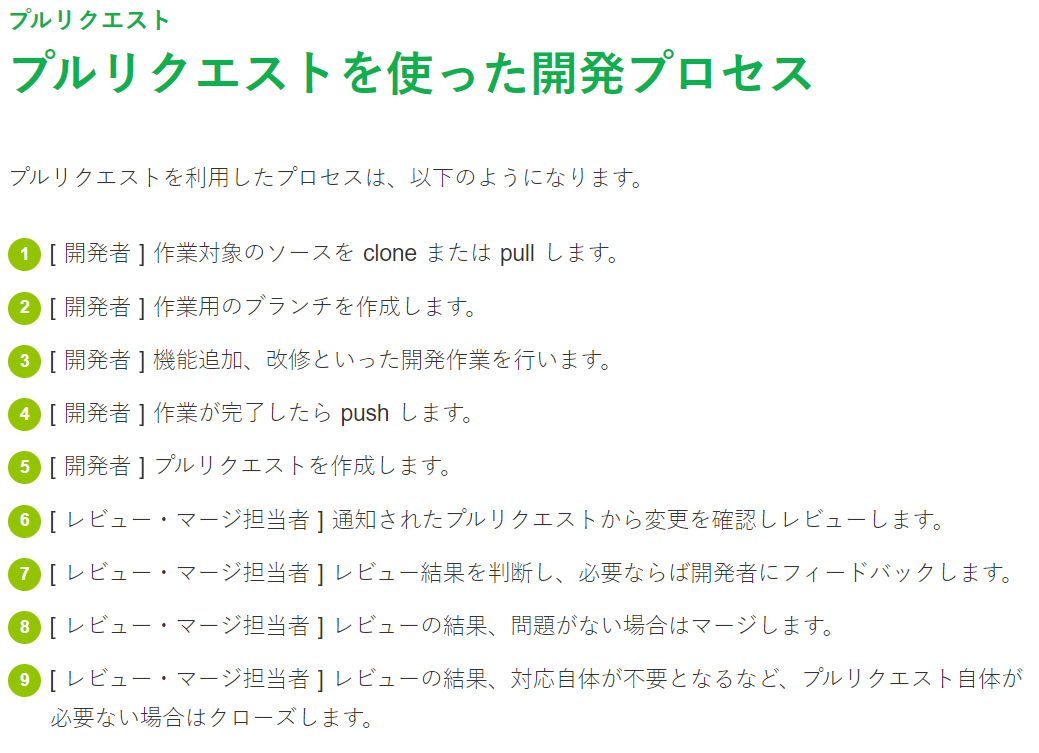
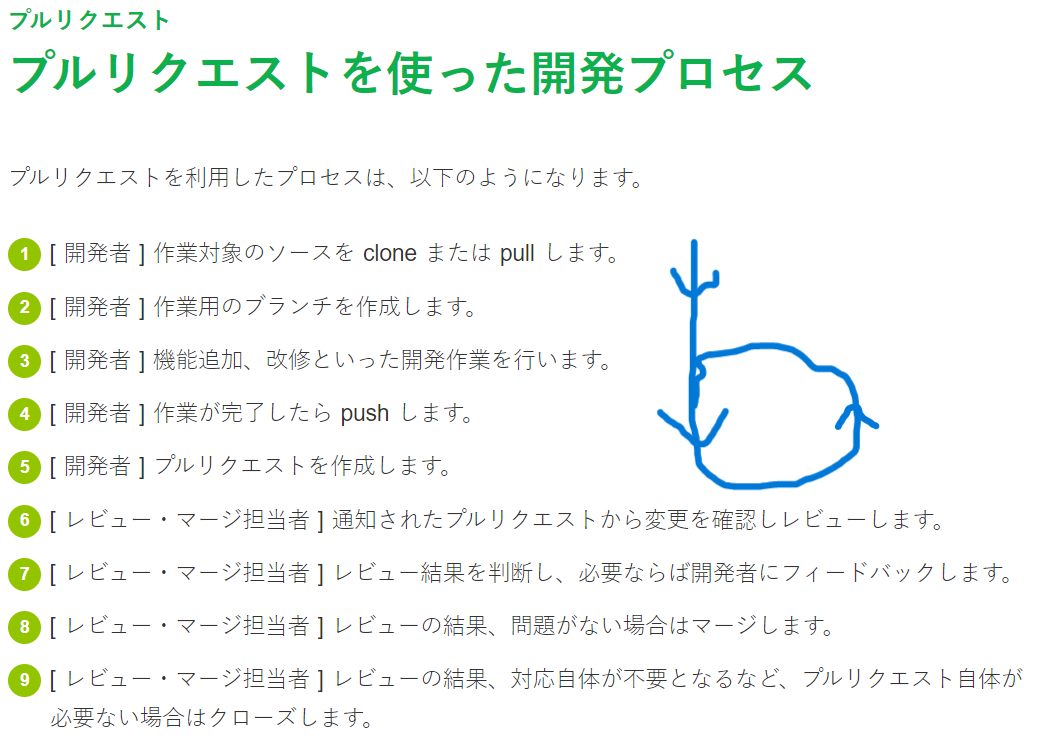
修正

Changed region(s): [[0.616, 0.3054, 0.8624, 0.672]]

diff --git a/SetUp/環境構築.md b/SetUp/環境構築.md
@@ -51,4 +51,6 @@ TODO
 * GitHubに[プッシュ](https://backlog.com/ja/git-tutorial/intro/09/)
 * プルリクエストを作成
 
+![PullRequest](PullRequest.png)
+
 今回、プルリクエストを受け取って私が皆さんの進捗を把握する予定なので出来る限り頻繁にプルリクエストを送ってほしいです。
